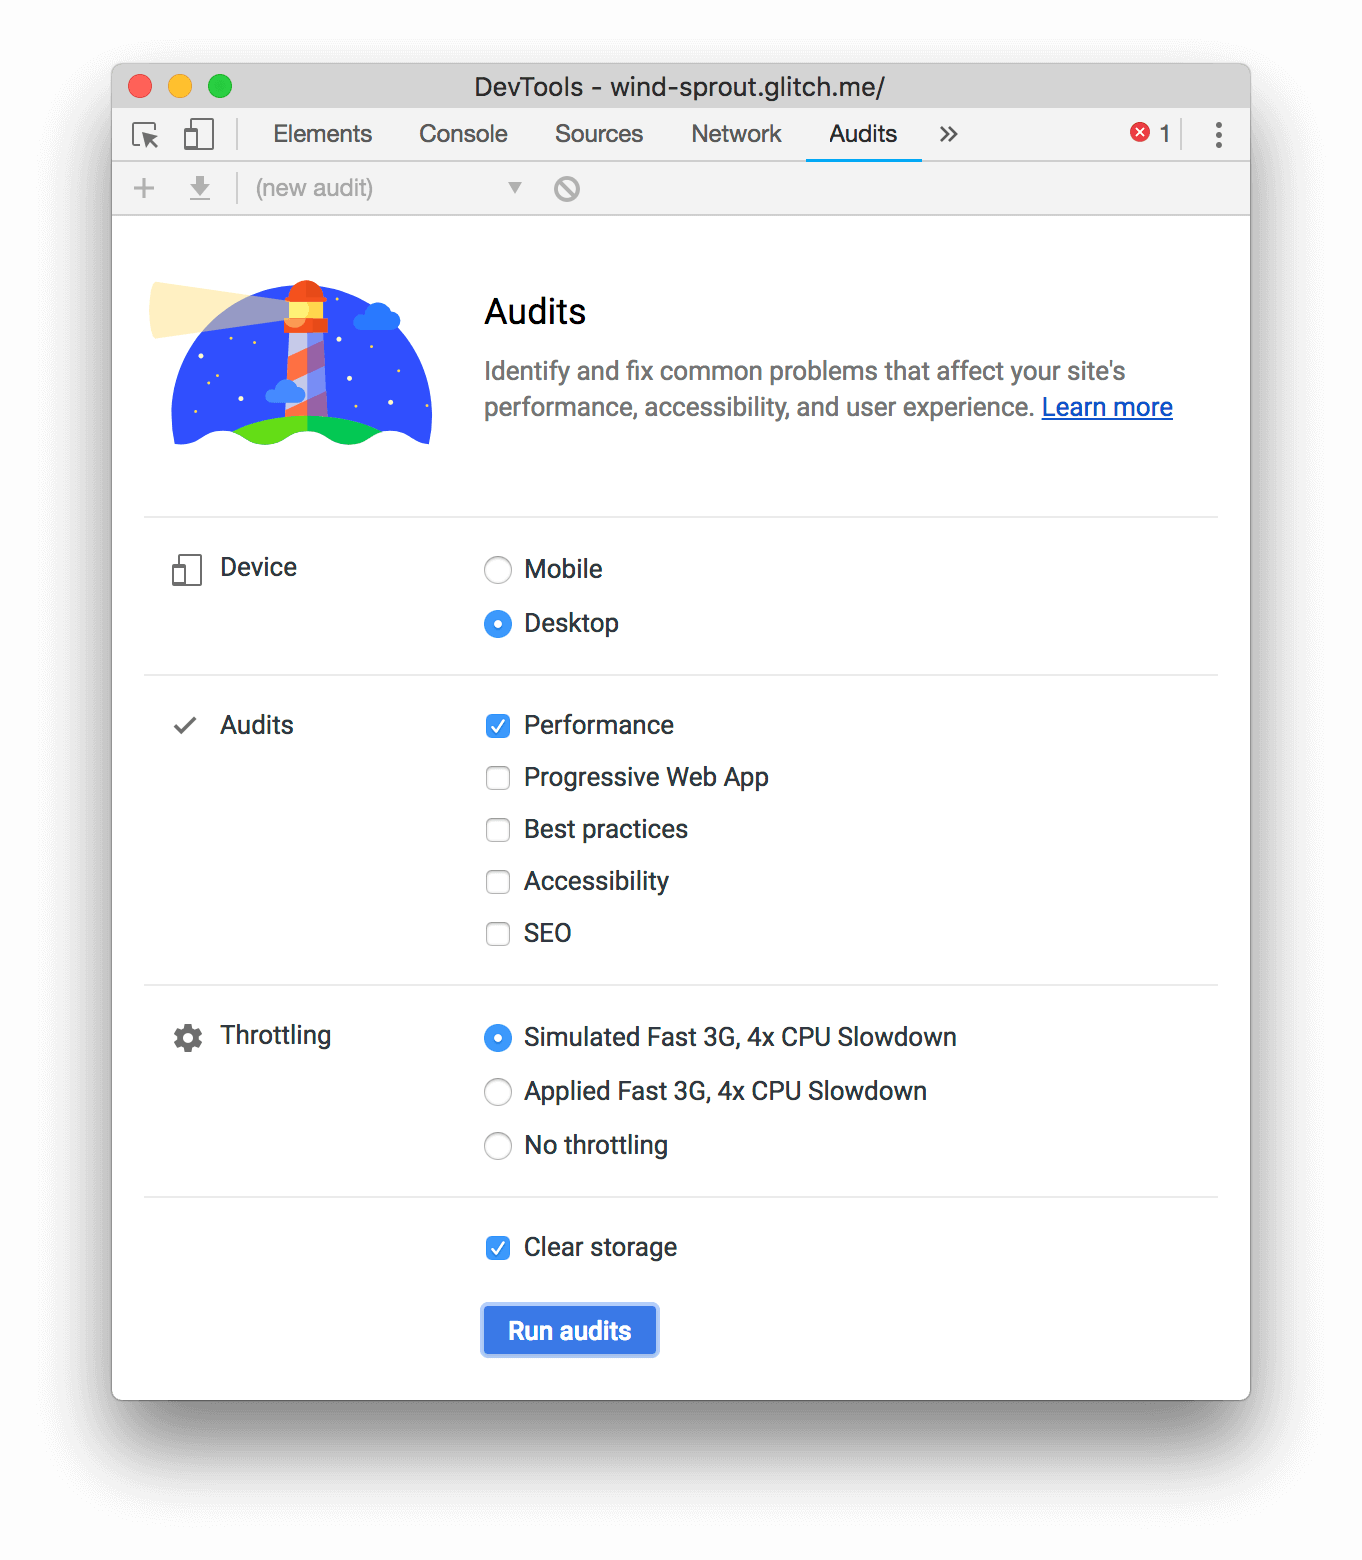
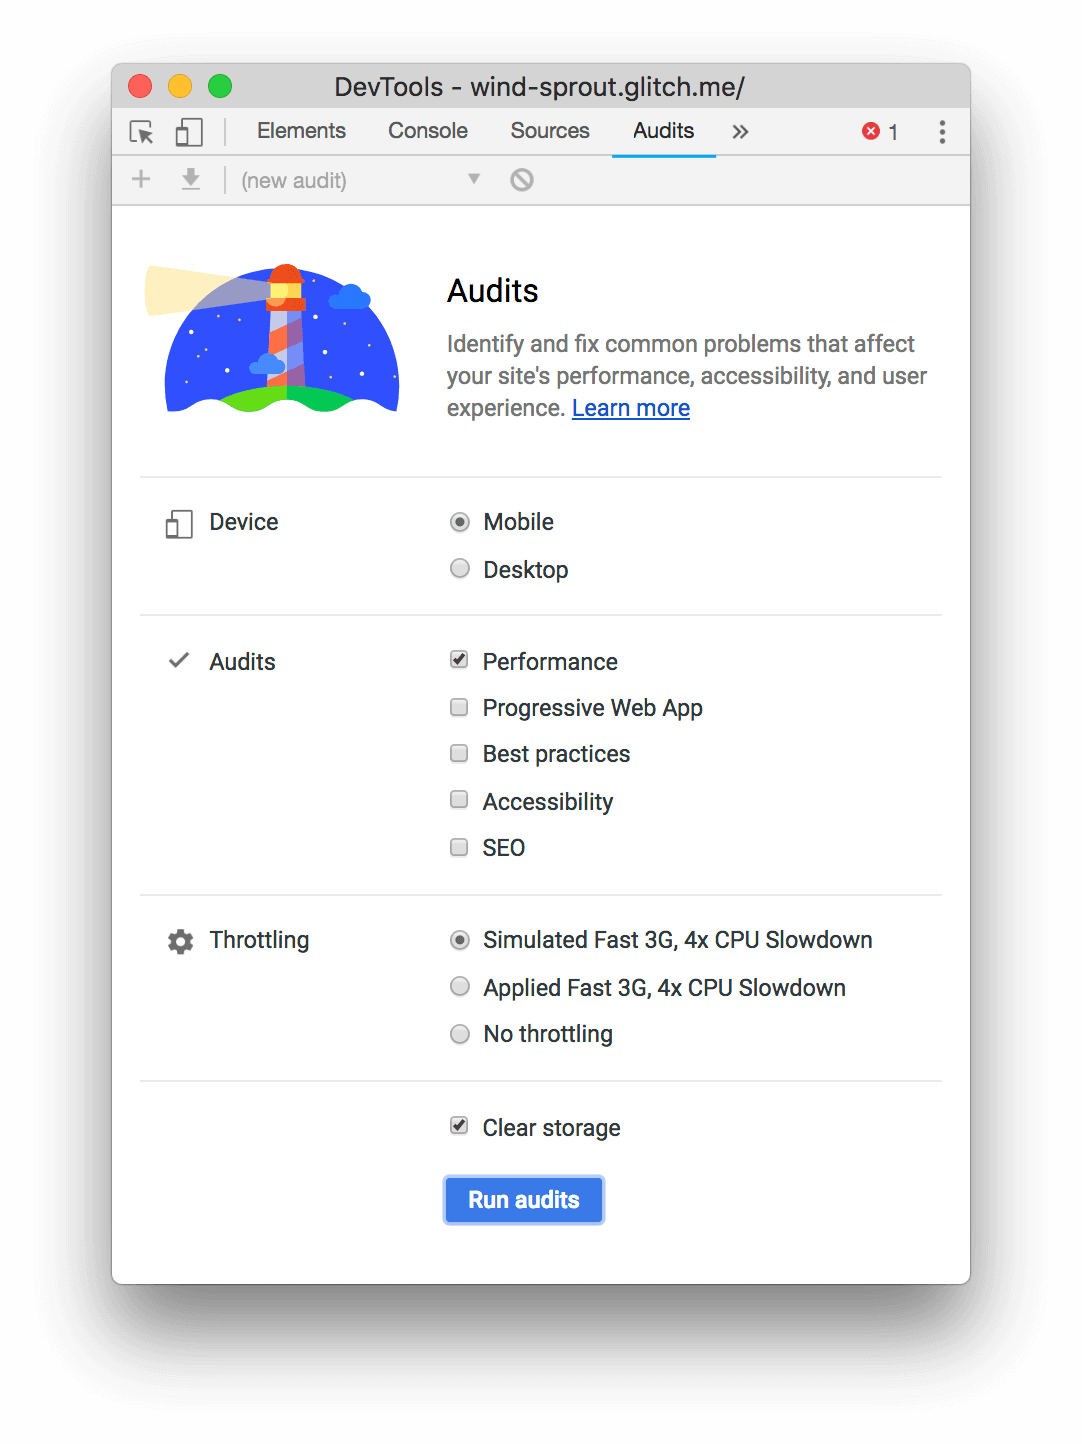
[devtools] minor fixes to the speed tutorial

diff --git a/src/content/en/tools/chrome-devtools/speed/get-started.md b/src/content/en/tools/chrome-devtools/speed/get-started.md
@@ -2,7 +2,7 @@ project_path: /web/tools/_project.yaml
 book_path: /web/tools/_book.yaml
 description: Learn how to use Chrome DevTools to find ways to make your websites load faster.
 
-{# wf_updated_on: 2018-07-02 #}
+{# wf_updated_on: 2018-07-10 #}
 {# wf_published_on: 2018-06-18 #}
 {# wf_blink_components: Platform>DevTools #}
 
@@ -41,8 +41,8 @@ that the site loads slowly. Tony has asked you to help him speed the site up.
 Whenever you set out to improve a site's load performance, **always start with an audit**.
 The audit has 2 important functions:
 
-* It creates a baseline for you to measure subsequent changes against.
-* It gives you actionable tips on what changes will have the most impact.
+* It creates a **baseline** for you to measure subsequent changes against.
+* It gives you **actionable tips** on what changes will have the most impact.
 
 ### Set up {: #setup }
 
@@ -124,7 +124,24 @@ The baseline is a record of how the site performed before you made any performan
        </figcaption>
      </figure>
 
-1. Match your audit configuration settings to those in **Figure 8**.
+1. Match your audit configuration settings to those in **Figure 7**. Here's an explanation of
+   the different options:
+
+     * **Device**. Setting to **Mobile** changes the user agent string and simulates a mobile viewport.
+       Setting to **Desktop** pretty much just disables the **Mobile** changes.
+     * **Audits**. Disabling a category prevents the Audits panel from running those audits, and
+       excludes those audits from your report. You can leave the other categories enabled, if you want
+       to see the types of recommendations they provide. Disabling categories slightly speeds up the
+       auditing process.
+     * **Throttling**. Setting to **Simulated Fast 3G, 4x CPU Slowdown** simulates the typical conditions
+       of browsing on a mobile device. It's called "simulated" because the Audits panel doesn't actually
+       throttle during the auditing process. Instead, it just extrapolates how long the page would take
+       to load under mobile conditions. The **Applied...** setting, on the other hand, actually throttles your
+       CPU and network, with the tradeoff of a longer auditing process.
+     * **Clear Storage**. Enabling this checkbox clears all storage associated with the page before every audit.
+       Leave this setting on if you want to audit how first-time visitors experience your site. Disable this
+       setting when you want the repeat-visit experience.
+
 1. Click **Run Audits**. After 10 to 30 seconds, the Audits panel shows you a report of the site's
    performance.
 
@@ -138,7 +155,9 @@ The baseline is a record of how the site performed before you made any performan
 #### Handling report errors {: #errors }
 
 If you ever get an error in your Audits panel report, try running the demo tab from an
-[incognito window][incognito]{:.external} with no other tabs open.
+[incognito window][incognito]{:.external} with no other tabs open. This ensures that
+you're running Chrome from a clean state. Chrome Extensions in particular often interfere
+with the auditing process.
 
 <figure>
   <img src="imgs/error.png" alt="A report that errored."/>
@@ -164,9 +183,8 @@ make changes to the code, you should see this number rise. A higher score means 
 The **Metrics** section provides quantitative measurements of the site's performance. Each metric
 provides insight into a different aspect of the performance. For example, **First Contentful Paint**
 tells you when content is first painted to the screen, which is an important milestone in the user's
-perception of the page load, whereas **First CPU Idle** marks when the main thread is quiet enough
-to handle user input, which is essentially a proxy for when the user can first interact with the
-page.
+perception of the page load, whereas **Time To Interactive** marks the point at which the page
+appears ready enough to handle user interactions.
 
 <figure>
   <img src="imgs/metrics.png" alt="The Metrics section."/>
@@ -489,9 +507,9 @@ The first task, then, is to find code that doesn't need to be executed on page l
 
      <figure>
        <img src="imgs/commandmenu.png" 
-            alt="Opening the Command Menu from the Coverage tab."/>
+            alt="Opening the Command Menu from the Audits panel."/>
        <figcaption>
-         <b>Figure 30</b>. Opening the Command Menu from the Coverage tab
+         <b>Figure 30</b>. Opening the Command Menu from the Audits panel
        </figcaption>
      </figure>
 
